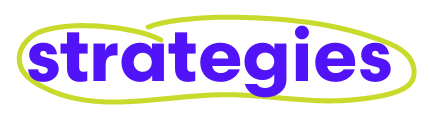
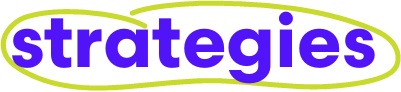
Add oval images for all By Need pages and fix inline placement

diff --git a/src/pages/ByNeedPage.tsx b/src/pages/ByNeedPage.tsx
@@ -18,16 +18,22 @@ import brushExecute from "@/assets/brush-execute.png";
 import brushStrategy from "@/assets/brush-strategy.png";
 import brushVisibility from "@/assets/brush-visibility.png";
 import brushStrong from "@/assets/brush-strong.png";
-import ovalStrategy from "@/assets/oval-strategy.png";
 import ovalStrategies from "@/assets/page 1.png";
+import ovalStrategy from "@/assets/page 2.png";
 import ovalMemorable from "@/assets/page 3.png";
 import ovalImpact from "@/assets/page 4.png";
+import ovalEngagement from "@/assets/page 5.png";
+import ovalInfluence from "@/assets/page 6.png";
+import ovalFoundation from "@/assets/page 7.png";
 
 const ovalImages: Record<string, string> = {
-  "strategy": ovalStrategy,
   "strategies": ovalStrategies,
+  "strategy": ovalStrategy,
   "memorable": ovalMemorable,
   "impact": ovalImpact,
+  "engagement": ovalEngagement,
+  "influence": ovalInfluence,
+  "foundation": ovalFoundation,
 };
 
 const brushImages: Record<string, string> = {
@@ -212,7 +218,8 @@ const ByNeedPage = () => {
             <span key={i}>{br}<img
               src={ovalImg}
               alt={trimmed}
-              className="inline-block h-[1.3em] align-baseline relative top-[0.15em]"
+              className="inline h-[1.4em] align-baseline relative -top-[0.05em]"
+              style={{ display: 'inline', verticalAlign: 'baseline' }}
             /></span>
           );
         }
